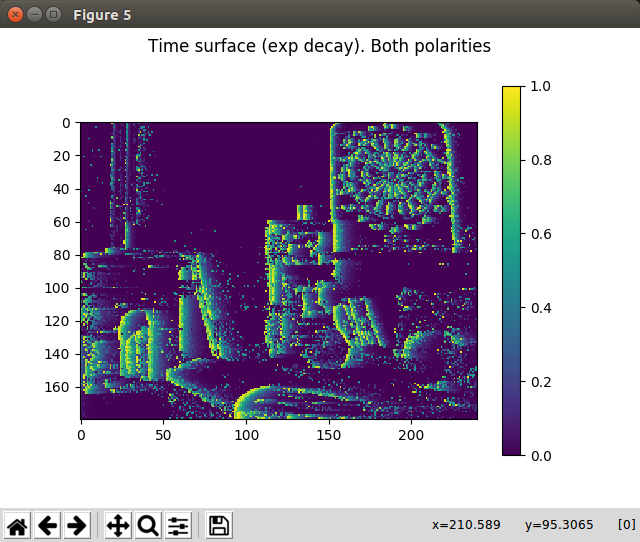
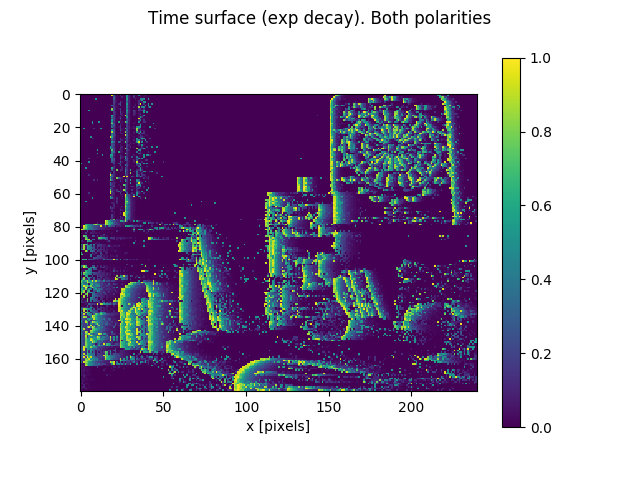
update images and text

diff --git a/ex2_events_visualization.py b/ex2_events_visualization.py
@@ -97,6 +97,8 @@ fig = plt.figure()
 fig.suptitle('Balance of event polarities')
 maxabsval = np.amax(np.abs(img))
 plt.imshow(img, cmap='gray', clim=(-maxabsval,maxabsval))
+plt.xlabel("x [pixels]")
+plt.ylabel("y [pixels]")
 plt.colorbar()
 plt.show()
 
@@ -105,6 +107,8 @@ fig = plt.figure()
 fig.suptitle('Balance of event polarities')
 maxabsval = np.amax(np.abs(img))
 plt.imshow(img, cmap='seismic_r', clim=(-maxabsval,maxabsval))
+plt.xlabel("x [pixels]")
+plt.ylabel("y [pixels]")
 plt.colorbar()
 plt.show()
 
@@ -121,12 +125,16 @@ for i in range(num_events):
 fig = plt.figure()
 fig.suptitle('Histogram of positive events')
 plt.imshow(img_pos)
+plt.xlabel("x [pixels]")
+plt.ylabel("y [pixels]")
 plt.colorbar()
 plt.show()
 
 fig = plt.figure()
 fig.suptitle('Histogram of negative events')
 plt.imshow(img_neg)
+plt.xlabel("x [pixels]")
+plt.ylabel("y [pixels]")
 plt.colorbar()
 plt.show()
 
@@ -145,6 +153,8 @@ fig = plt.figure()
 fig.suptitle('Last event polarity per pixel')
 plt.imshow(img, cmap='gray')
 #plt.imshow(img, cmap='bwr')
+plt.xlabel("x [pixels]")
+plt.ylabel("y [pixels]")
 plt.colorbar()
 plt.show()
 
@@ -165,6 +175,8 @@ for i in range(num_events):
 fig = plt.figure()
 fig.suptitle('Time surface (exp decay). Both polarities')
 plt.imshow(img)
+plt.xlabel("x [pixels]")
+plt.ylabel("y [pixels]")
 plt.colorbar()
 plt.show()
 
@@ -181,12 +193,16 @@ for i in range(num_events):
 fig = plt.figure()
 fig.suptitle('Time surface (exp decay) of positive events')
 plt.imshow(sae_pos)
+plt.xlabel("x [pixels]")
+plt.ylabel("y [pixels]")
 plt.colorbar()
 plt.show()
 
 fig = plt.figure()
 fig.suptitle('Time surface (exp decay) of negative events')
 plt.imshow(sae_neg)
+plt.xlabel("x [pixels]")
+plt.ylabel("y [pixels]")
 plt.colorbar()
 plt.show()
 
@@ -202,6 +218,8 @@ for i in range(num_events):
 fig = plt.figure()
 fig.suptitle('Time surface (exp decay), using polarity as sign')
 plt.imshow(sae, cmap='seismic') # using color (Red/blue)
+plt.xlabel("x [pixels]")
+plt.ylabel("y [pixels]")
 plt.colorbar()
 plt.show()
 
@@ -220,6 +238,8 @@ fig.suptitle('Time surface (exp decay), balance of both polarities')
 #plt.imshow(sae)
 maxabsval = np.amax(np.abs(sae))
 plt.imshow(sae, cmap='seismic', clim=(-maxabsval,maxabsval))
+plt.xlabel("x [pixels]")
+plt.ylabel("y [pixels]")
 plt.colorbar()
 plt.show()
 
@@ -238,6 +258,8 @@ sae = sae / count
 fig = plt.figure()
 fig.suptitle('Average timestamps regardless of polarity')
 plt.imshow(sae)
+plt.xlabel("x [pixels]")
+plt.ylabel("y [pixels]")
 plt.colorbar()
 plt.show()
 
@@ -262,12 +284,16 @@ count_neg [count_neg < 1] = 1;  sae_neg = sae_neg / count_neg
 fig = plt.figure()
 fig.suptitle('Average timestamps of positive events')
 plt.imshow(sae_pos)
+plt.xlabel("x [pixels]")
+plt.ylabel("y [pixels]")
 plt.colorbar()
 plt.show()
 
 fig = plt.figure()
 fig.suptitle('Average timestamps of negative events')
 plt.imshow(sae_neg)
+plt.xlabel("x [pixels]")
+plt.ylabel("y [pixels]")
 plt.colorbar()
 plt.show()
 
